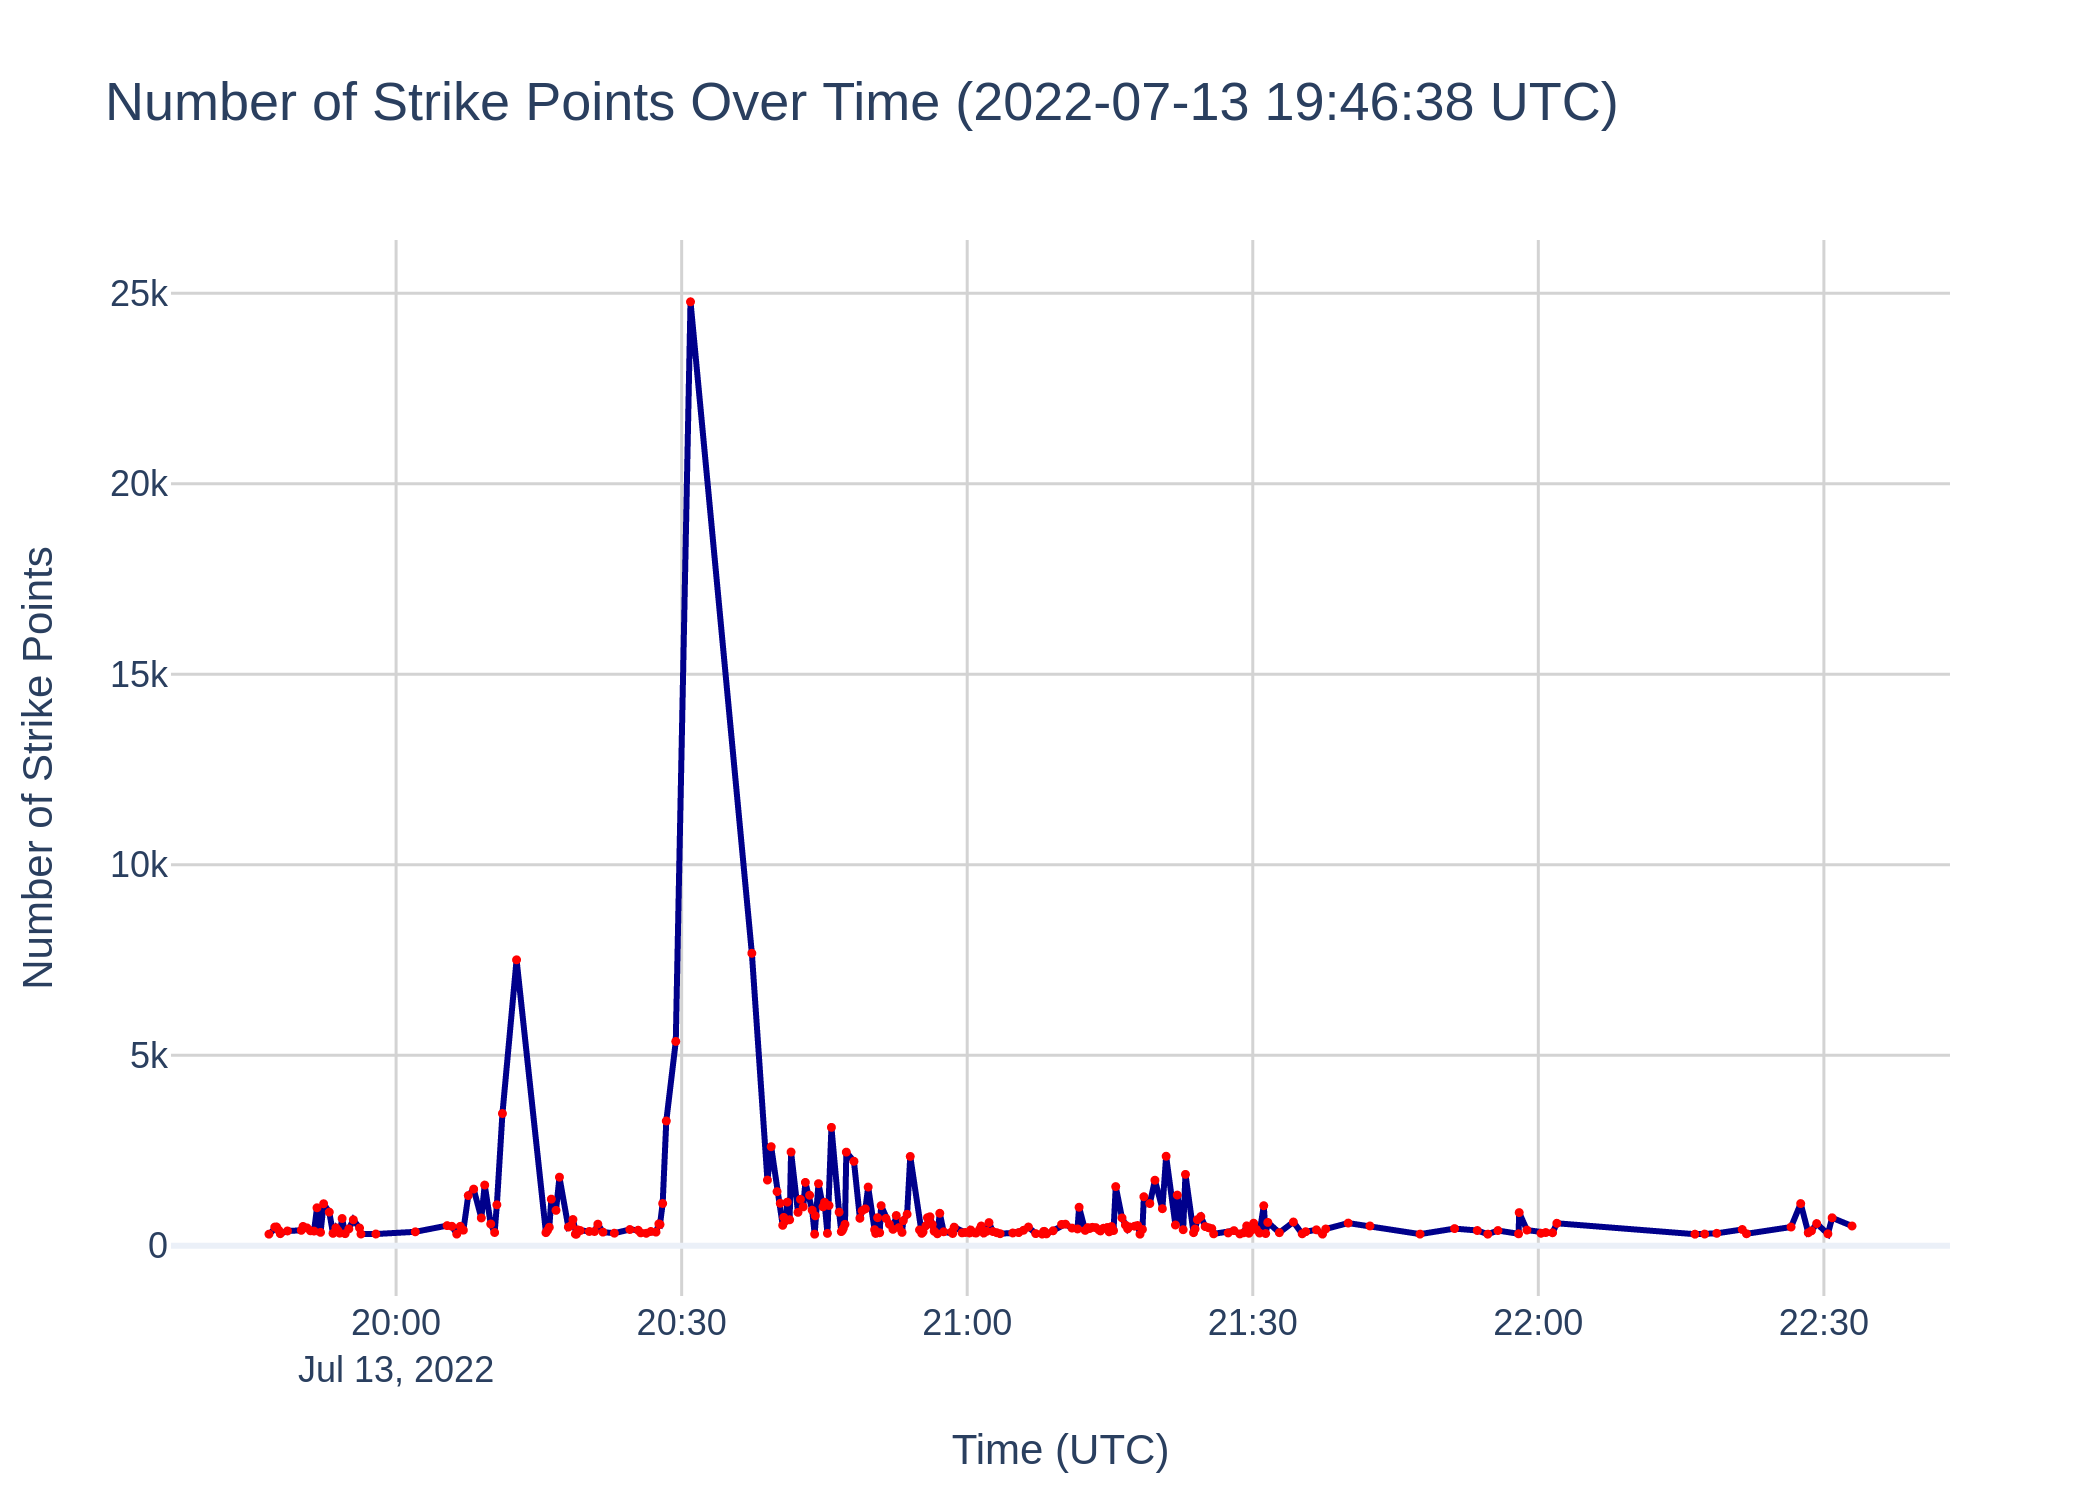
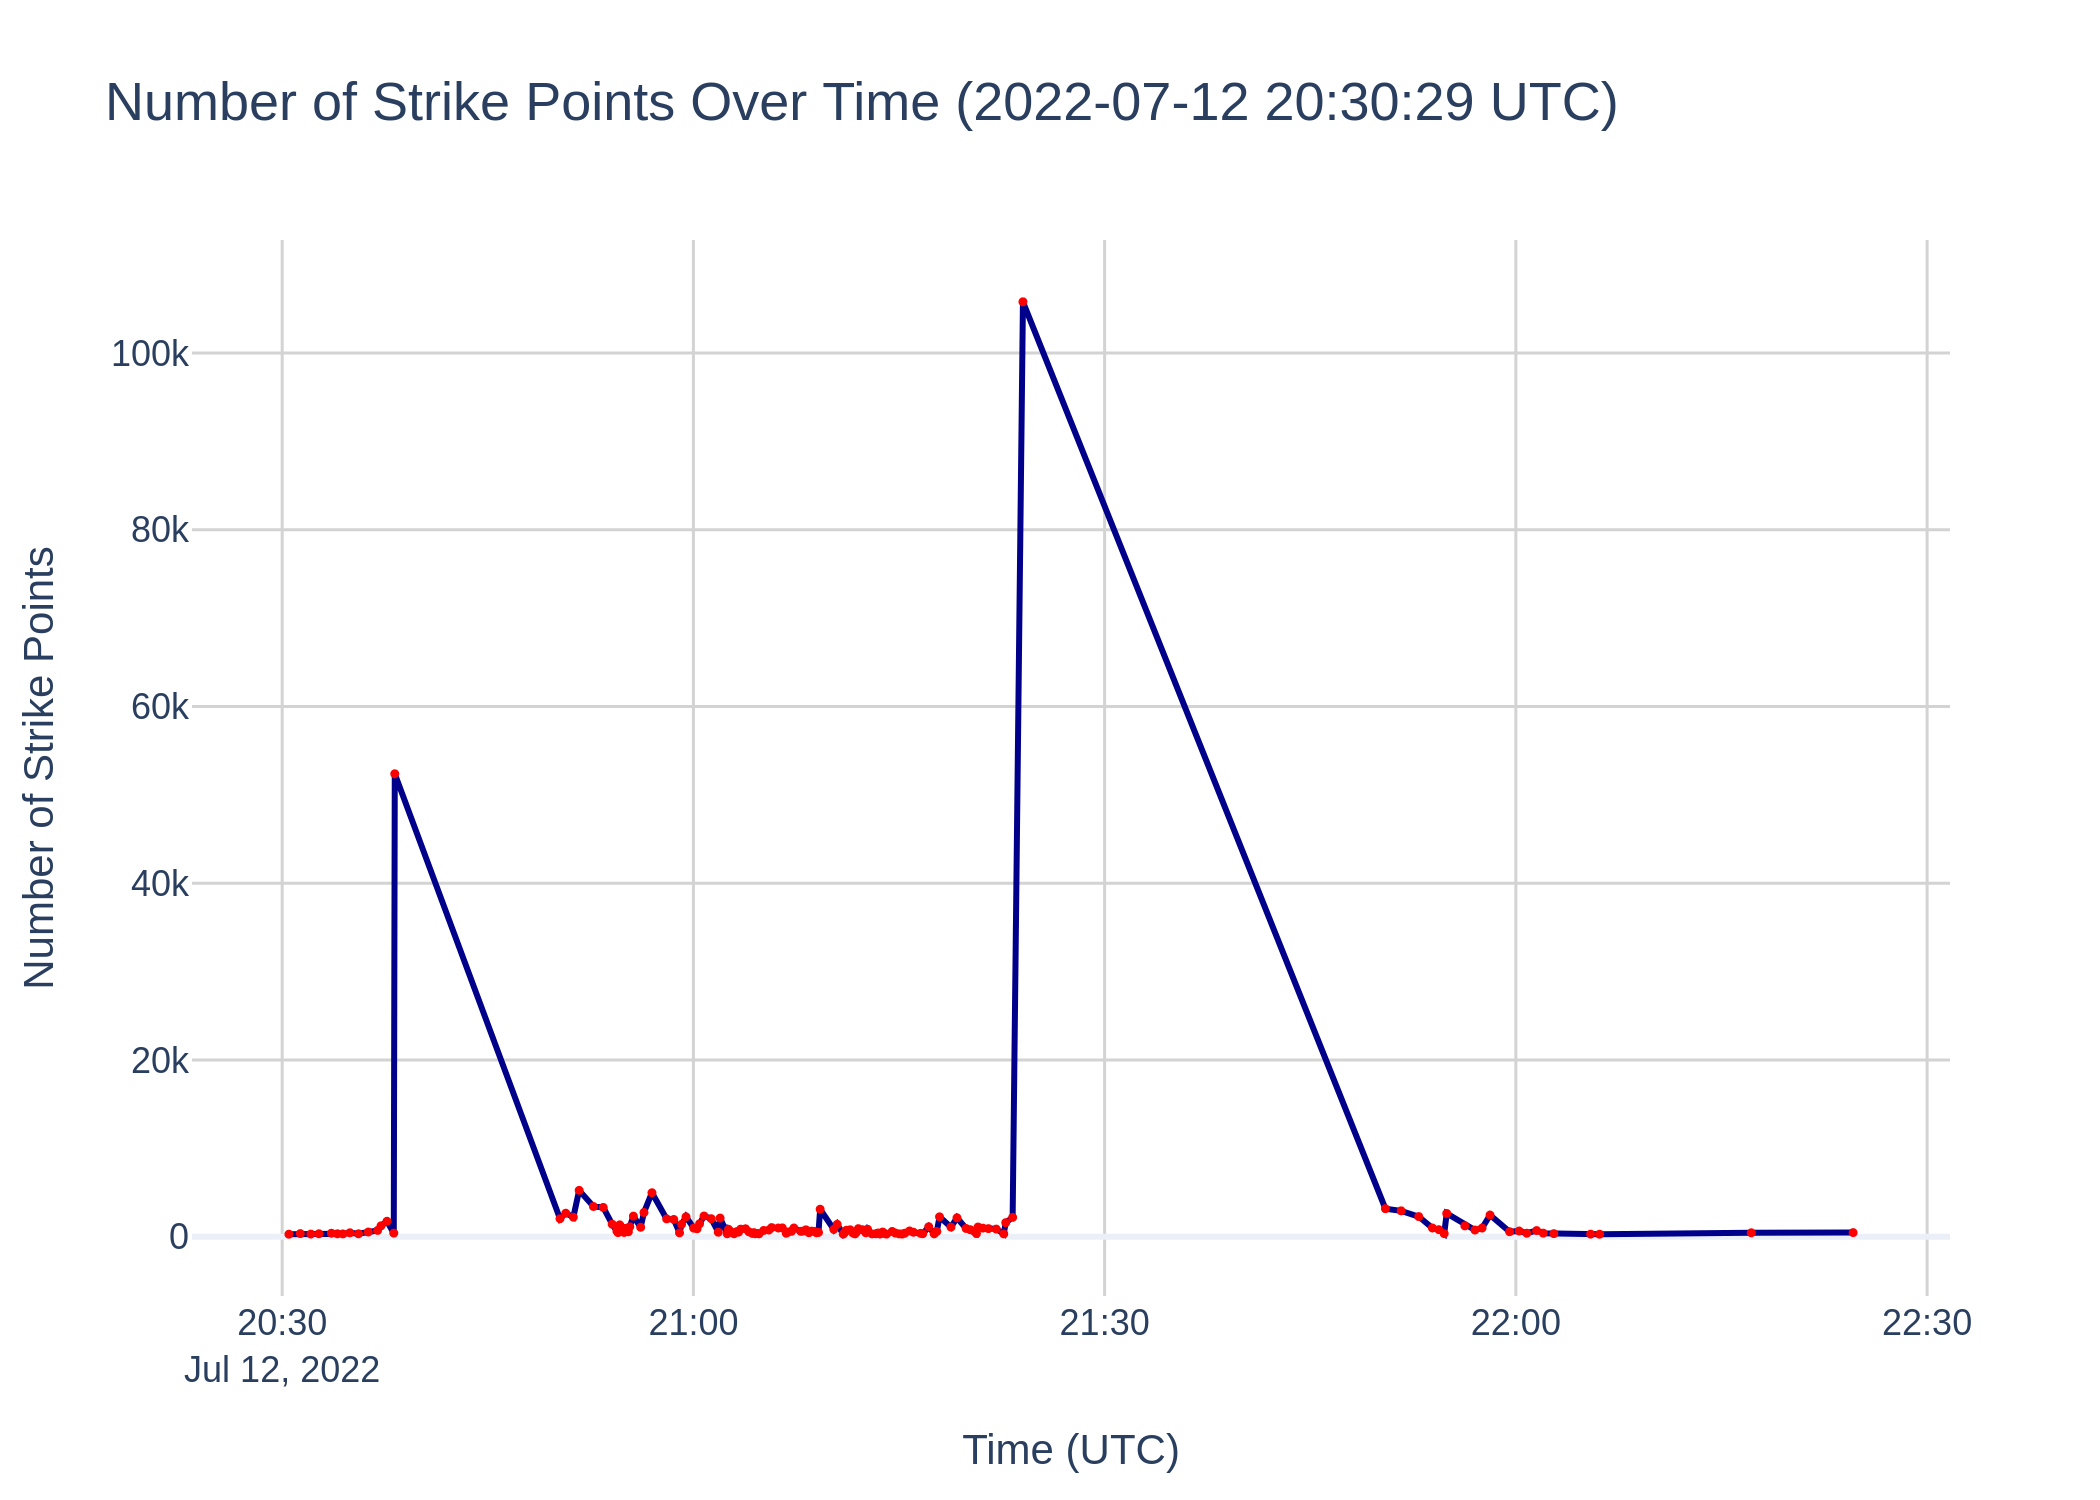
Plotting all datapoints now uses multiple CPU's

diff --git a/main.py b/main.py
@@ -9,6 +9,8 @@ import shutil
 lightning_data_folder = "lylout_files"
 data_extension = ".dat"
 
+CPU_PCT = 0.7 # Percentage of CPU's to use for multiprocessing when necessary
+
 os.makedirs(lightning_data_folder, exist_ok=True)  # Ensure that it exists
 
 dat_file_paths = database_parser.get_dat_files_paths(
@@ -43,10 +45,10 @@ print("Headers:", headers)
 
 
 start_time = datetime.datetime(
-    2022, 7, 13, 0, 0, tzinfo=datetime.timezone.utc
+    2022, 7, 12, 0, 0, tzinfo=datetime.timezone.utc
 ).timestamp()
 end_time = datetime.datetime(
-    2022, 7, 13, 23, 0, tzinfo=datetime.timezone.utc
+    2022, 7, 12, 23, 0, tzinfo=datetime.timezone.utc
 ).timestamp()
 
 # Build filter list for time_unix boundaries.
@@ -98,26 +100,18 @@ else:
     print("Plotting strike points over time")
     lightning_plotters.plot_strikes_over_time(bucketed_strikes_indeces_sorted, events)
 
-
+    print("Plotting all strikes into a readable heatmap.")
     strike_dir = "strikes"
+    num_cores = int(max(CPU_PCT*os.cpu_count(), 1)) # calculate the number of cores to use
 
     # Remove the strikes directory if it exists
     if os.path.exists(strike_dir):
         shutil.rmtree(strike_dir)
     
     os.makedirs(strike_dir, exist_ok=True)
-    for i, strike in enumerate(bucketed_strikes_indeces_sorted):
-      pct = 100*(i+1)/len_strikes
-      print(f"Plotting average power heatmap: {pct:.2f}%")
+    lightning_plotters.plot_all_strikes(bucketed_strikes_indeces_sorted, events, strike_dir,num_cores)
 
-      start_time_unix = events.iloc[bucketed_strikes_indeces_sorted[i][0]]["time_unix"]
-      start_time_dt = datetime.datetime.fromtimestamp(
-          start_time_unix, tz=datetime.timezone.utc
-      ).strftime("%Y-%m-%d %H:%M:%S UTC")
-
-      output_filename = os.path.join(strike_dir, start_time_dt) + ".png"
-      lightning_plotters.plot_avg_power_map(bucketed_strikes_indeces_sorted[i], events, output_filename=output_filename)
-
+    print("Exporting largest instance on file")
     # Just plot the largest instance
     lightning_plotters.plot_avg_power_map(bucketed_strikes_indeces_sorted[0], events)
 

diff --git a/lightning_plotters.py b/lightning_plotters.py
@@ -9,7 +9,9 @@ import numpy as np
 from scipy.stats import binned_statistic_2d
 from typing import List
 from scipy.ndimage import gaussian_filter
-
+import os
+import multiprocessing
+from tqdm import tqdm
 
 def plot_strikes_over_time(
     bucketed_strikes_indeces_sorted: list[list[int]],
@@ -139,3 +141,29 @@ def plot_avg_power_map(
     fig.write_image(output_filename, scale=3)
 
     return output_filename
+
+
+def _plot_strike(args):
+    strike_indeces, events, strike_dir = args
+
+    # Get the start time
+    start_time_unix = events.iloc[strike_indeces[0]]["time_unix"]
+    start_time_dt = datetime.datetime.fromtimestamp(
+        start_time_unix, tz=datetime.timezone.utc
+    ).strftime("%Y-%m-%d %H:%M:%S UTC")
+
+    output_filename = os.path.join(strike_dir, start_time_dt) + ".png"
+    plot_avg_power_map(strike_indeces, events, output_filename=output_filename)
+
+def plot_all_strikes(bucketed_strike_indeces, events, strike_dir="strikes", num_cores=1):
+    # Prepare the argument tuples for each strike
+    args_list = [
+        (strike_indeces, events, strike_dir) 
+        for strike_indeces in bucketed_strike_indeces
+    ]
+
+    # Use a pool of worker processes to parallelize
+    with multiprocessing.Pool(processes=num_cores) as pool:
+        # Use imap so that we can attach tqdm for a progress bar
+        for _ in tqdm(pool.imap(_plot_strike, args_list), total=len(args_list)):
+            pass
